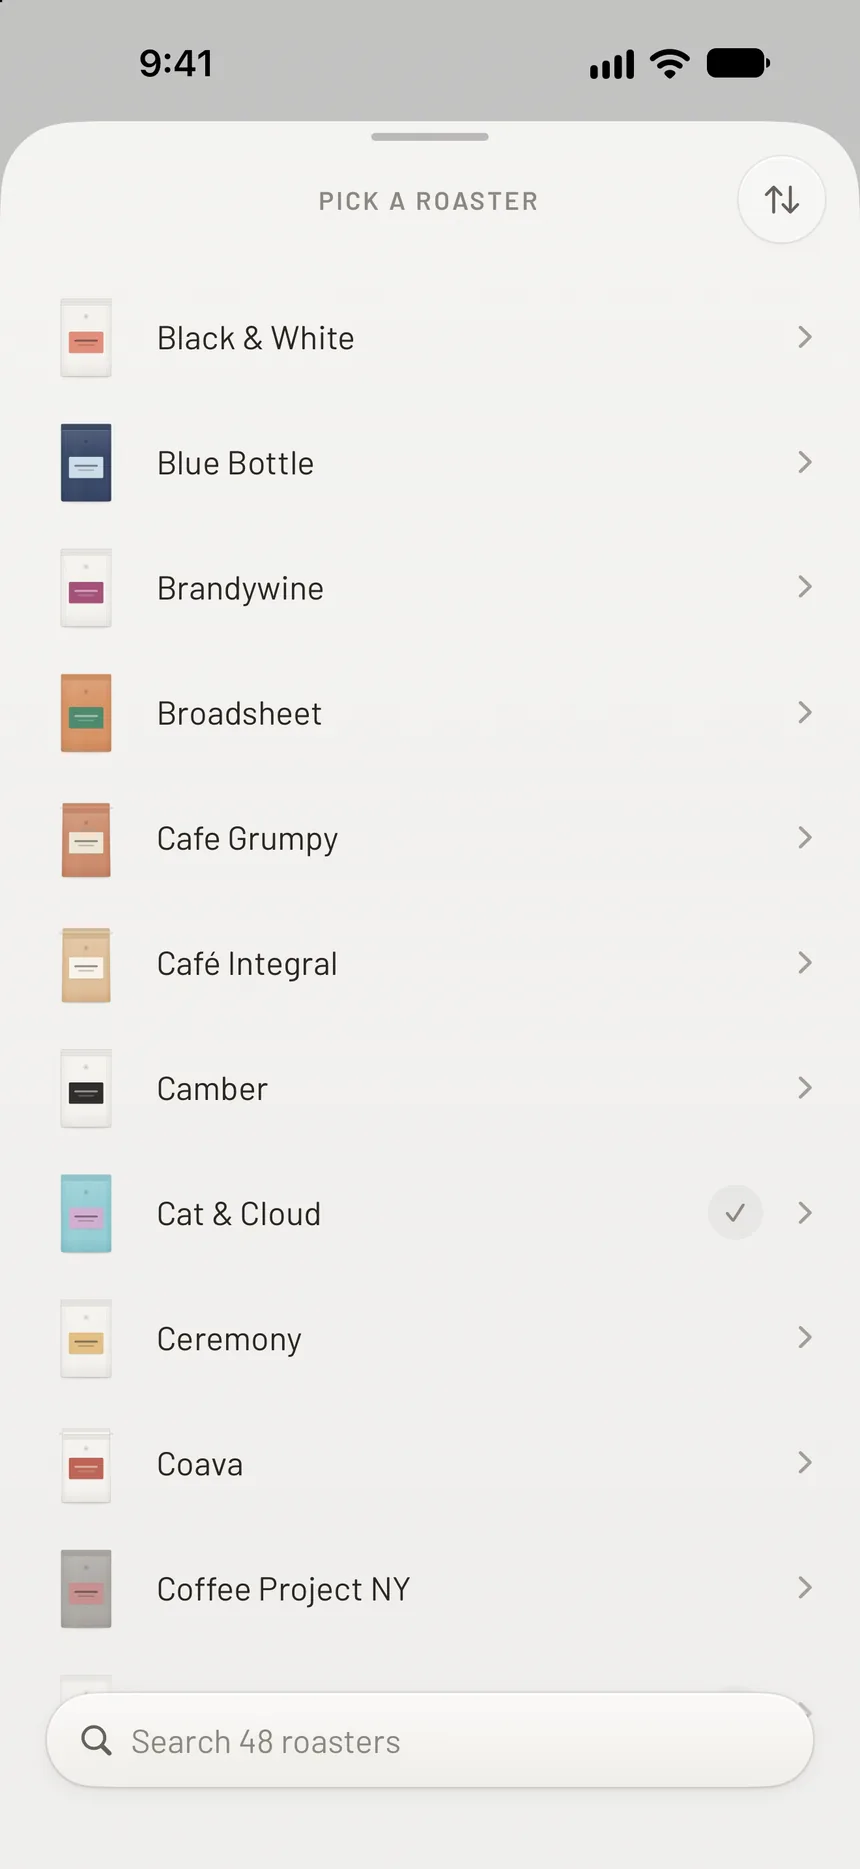
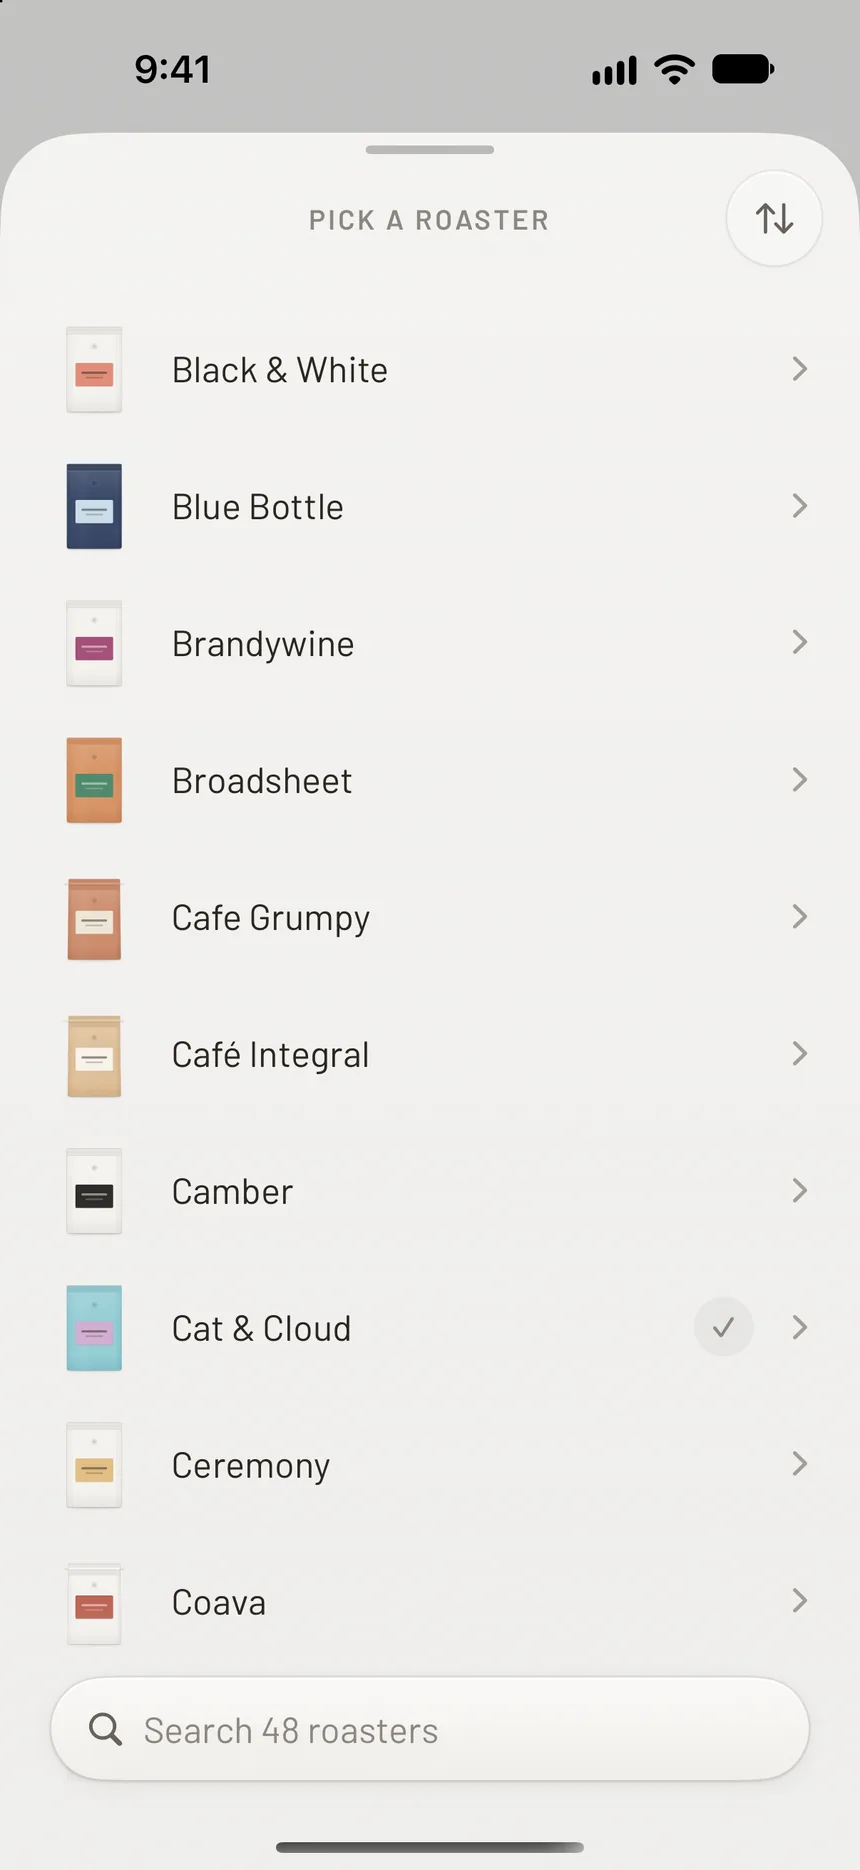
Screens from the 6.3" round 17 captures (his phone's size): current Shelf, tight Prep sheet, New Bag shows the resting line

diff --git a/index.html b/index.html
@@ -15,7 +15,7 @@
   <link rel="preconnect" href="https://fonts.googleapis.com">
   <link rel="preconnect" href="https://fonts.gstatic.com" crossorigin>
   <link href="https://fonts.googleapis.com/css2?family=Barlow:wght@400;500;600&display=swap" rel="stylesheet">
-  <link rel="stylesheet" href="/style.css?v=202611231635">
+  <link rel="stylesheet" href="/style.css?v=202611231636">
 </head>
 <body>
 
@@ -38,13 +38,13 @@
             <div class="device">
               <div class="frame">
               <div class="bezel"><div class="screen">
-                <img class="on" src="/assets/shelf.webp" alt="The shelf: all your bags of coffee, in their real colors" width="860" height="1869" data-title="All your bags at a glance." data-sub="Each bag follows its roaster's colors and shape, with your best grind setting and your rating.">
-                <img src="/assets/prep.webp" alt="The grind dial, set where Dial recommends" width="860" height="1869" data-title="No more guessing the grind." data-sub="Dial figures out the best next setting from your past shots and your taste notes." loading="lazy">
-                <img src="/assets/taste-dialed.webp" alt="The taste slider set to Dialed in" width="860" height="1869" data-title="A simple way to rate a shot." data-sub="One simple slider, no barista training needed. Dial uses it to refine your next shot." loading="lazy">
-                <img src="/assets/pull.webp" alt="A shot in progress, weighed and timed on the scale" width="860" height="1869" data-title="Stop on the beep." data-sub="Pair an Acaia Lunar scale and Dial will log the shot by itself. Just stop the extraction when you hear the beep." loading="lazy">
-                <img src="/assets/newbag.webp" alt="A new bag, filled in from the roaster" width="860" height="1869" data-title="Add every bag in seconds." data-sub="Origin, process and roast level are already filled in. Dial tells you when a bag needs to rest and when it's ready to brew." loading="lazy">
-                <img src="/assets/roasters.webp" alt="The list of roasters" width="860" height="1869" data-title="48 US roasters, built in." data-sub="Just pick a coffee and add the roast date." loading="lazy">
-                <img src="/assets/bag.webp" alt="A bag's page with its shots" width="860" height="1869" data-title="Never start from scratch." data-sub="Each bag keeps the full history of your shots, so you stop wasting beans." loading="lazy">
+                <img class="on" src="/assets/shelf.webp" alt="The shelf: all your bags of coffee, in their real colors" width="860" height="1870" data-title="All your bags at a glance." data-sub="Each bag follows its roaster's colors and shape, with your best grind setting and your rating.">
+                <img src="/assets/prep.webp" alt="The grind dial, set where Dial recommends" width="860" height="1870" data-title="No more guessing the grind." data-sub="Dial figures out the best next setting from your past shots and your taste notes." loading="lazy">
+                <img src="/assets/taste-dialed.webp" alt="The taste slider set to Dialed in" width="860" height="1870" data-title="A simple way to rate a shot." data-sub="One simple slider, no barista training needed. Dial uses it to refine your next shot." loading="lazy">
+                <img src="/assets/pull.webp" alt="A shot in progress, weighed and timed on the scale" width="860" height="1870" data-title="Stop on the beep." data-sub="Pair an Acaia Lunar scale and Dial will log the shot by itself. Just stop the extraction when you hear the beep." loading="lazy">
+                <img src="/assets/newbag.webp" alt="A new bag, filled in from the roaster" width="860" height="1870" data-title="Add every bag in seconds." data-sub="Origin, process and roast level are already filled in. Dial tells you when a bag needs to rest and when it's ready to brew." loading="lazy">
+                <img src="/assets/roasters.webp" alt="The list of roasters" width="860" height="1870" data-title="48 US roasters, built in." data-sub="Just pick a coffee and add the roast date." loading="lazy">
+                <img src="/assets/bag.webp" alt="A bag's page with its shots" width="860" height="1870" data-title="Never start from scratch." data-sub="Each bag keeps the full history of your shots, so you stop wasting beans." loading="lazy">
               </div></div>
             </div>
             </div>
@@ -68,6 +68,6 @@
     </div>
   </footer>
 
-  <script src="/app.js?v=202611231635"></script>
+  <script src="/app.js?v=202611231636"></script>
 </body>
 </html>

diff --git a/privacy.html b/privacy.html
@@ -11,7 +11,7 @@
   <link rel="preconnect" href="https://fonts.googleapis.com">
   <link rel="preconnect" href="https://fonts.gstatic.com" crossorigin>
   <link href="https://fonts.googleapis.com/css2?family=Barlow:wght@400;500;600&display=swap" rel="stylesheet">
-  <link rel="stylesheet" href="/style.css?v=202611231635">
+  <link rel="stylesheet" href="/style.css?v=202611231636">
 </head>
 <body>
 
@@ -81,6 +81,6 @@
     </div>
   </footer>
 
-  <script src="/app.js?v=202611231635"></script>
+  <script src="/app.js?v=202611231636"></script>
 </body>
 </html>

diff --git a/support.html b/support.html
@@ -11,7 +11,7 @@
   <link rel="preconnect" href="https://fonts.googleapis.com">
   <link rel="preconnect" href="https://fonts.gstatic.com" crossorigin>
   <link href="https://fonts.googleapis.com/css2?family=Barlow:wght@400;500;600&display=swap" rel="stylesheet">
-  <link rel="stylesheet" href="/style.css?v=202611231635">
+  <link rel="stylesheet" href="/style.css?v=202611231636">
 </head>
 <body>
 
@@ -59,6 +59,6 @@
     </div>
   </footer>
 
-  <script src="/app.js?v=202611231635"></script>
+  <script src="/app.js?v=202611231636"></script>
 </body>
 </html>

diff --git a/style.css b/style.css
@@ -189,7 +189,7 @@ h1 {
   position: relative;
   overflow: hidden;
   border-radius: 13.346cqw;
-  aspect-ratio: 1320 / 2868;
+  aspect-ratio: 1206 / 2622;
   background: #000;
 }
 .screen::before {  content: "";
